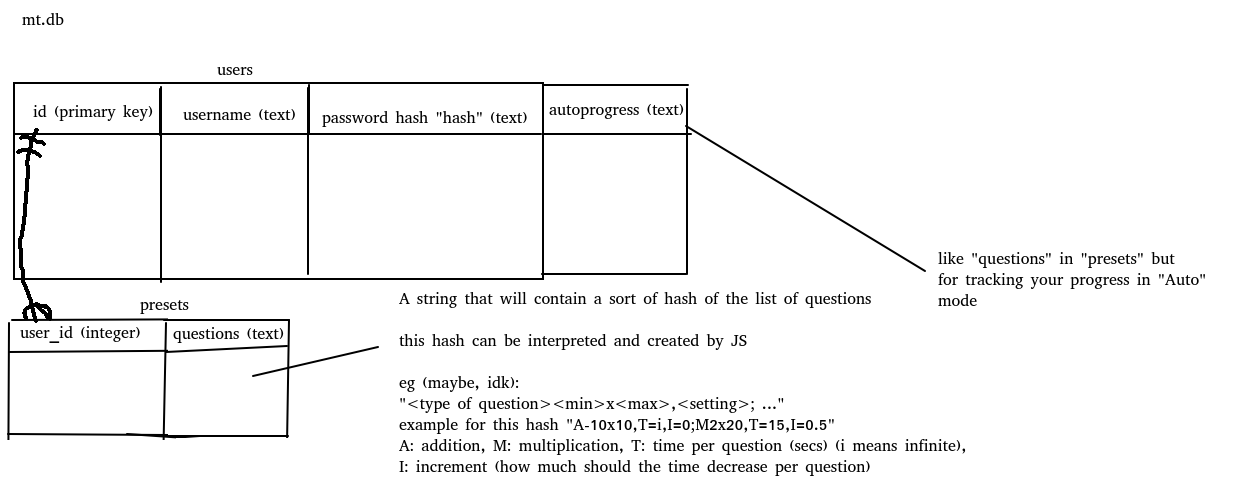
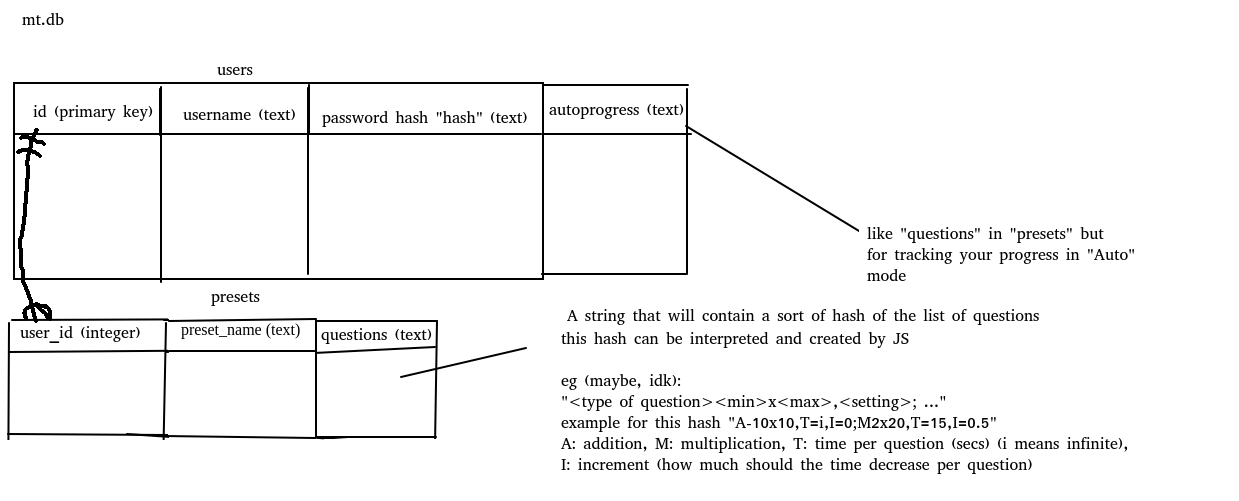
Added preset_name column to the presets table

Changed region(s): [[0.092, 0.5689, 0.9201, 0.9581], [0.6747, 0.4491, 0.9814, 0.5689], [0.1533, 0.5689, 0.2147, 0.5988]]

diff --git a/static/customized.js b/static/customized.js
@@ -1,3 +1,5 @@
+// question hash function?
+// 
 
 // Yes, this code is an ugly mess
 // This is a small project so I didn't spend time making it clean/efficient
@@ -198,8 +200,7 @@ document.onkeydown = function (e)
 		{
 			if (parseInt(document.getElementById("answer").value) == answer)
 			{
-				start_time -= decrement;;
-				let make = true;
+				start_time -= decrement;
 				if (start_time < condition)
 				{
 					if ([1.4, 2.4, 3.4, 4.4, 5.4].indexOf(skill) != -1) skill += 0.7
@@ -218,7 +219,6 @@ document.onkeydown = function (e)
 							document.getElementById("time_input").value = music.currentTime;
 						}
 						document.getElementById("skill_form").submit();
-						make = false;
 					}
 					else
 					{
@@ -231,26 +231,24 @@ document.onkeydown = function (e)
 						document.getElementById("status").innerHTML = `Congratulations, your skill has been raised to ${skill}!`;
 						status_timer = 1000;
 						document.getElementById("save_code").innerHTML = btoa(skill.toString());
+
+						bar.max = start_time * 100;
+						time_remaining = start_time;
+
+						results = generate_question(skill);
+						answer = results[1];
+						document.getElementById("question").innerHTML = results[0];
+						document.getElementById("answer").placeholder = results[0];
 					}
 
 					if (skill != 1.2) document.getElementById("tip").innerHTML = "Submitting an incorrect answer will make you lose time"
-				}
-
-				if (make)
-				{
-					bar.max = start_time * 100;
-					time_remaining = start_time;
-
-					results = generate_question(skill);
-					answer = results[1];
-					document.getElementById("question").innerHTML = results[0];
-					document.getElementById("answer").placeholder = results[0];
 				}
 			}
 			else if (document.getElementById("answer").value != "")
 			{
 				time_remaining = time_remaining / 2;
 			}
+
 			document.getElementById("answer").value = "";
 		}
 
@@ -664,4 +662,3 @@ function RNG(min, max)
 	}
 	return r;
 }
-

diff --git a/app.py b/app.py
@@ -183,8 +183,7 @@ def auto():
 
         session["skill"] = request.form.get("skill")
 
-        song = request.form.get("song")
-        song = song[len(song)-5:len(song)-4]
+        song = request.form.get("song")[len(song)-5:len(song)-4]
 
         if request.form.get("audio") == "yes":
             return render_template("auto.html", user=session["username"], skill=session["skill"],
@@ -193,10 +192,4 @@ def auto():
 
             return render_template("auto.html", user=session["username"], skill=session["skill"],
                     status=f"Congratulations, your skill has been raised to {session['skill']}!")
-
-
-
-
-
-
 
